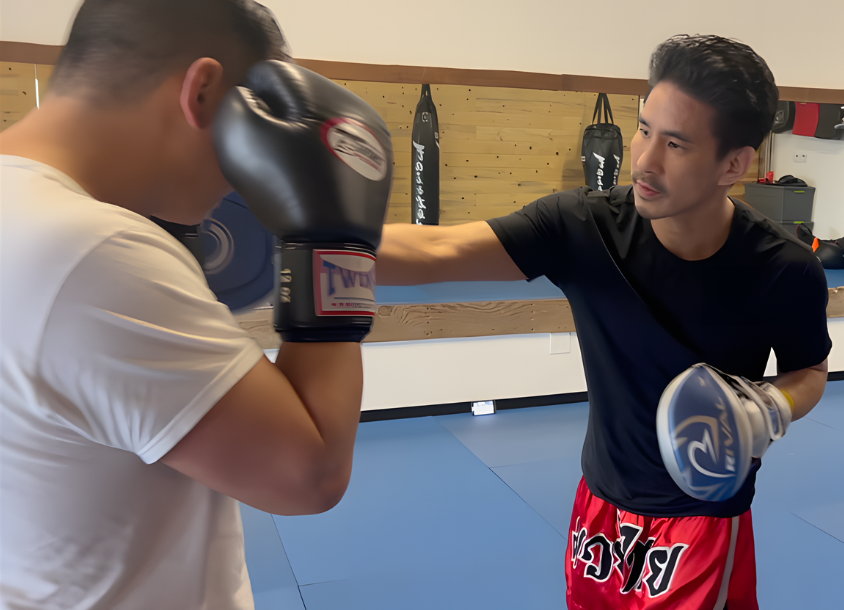
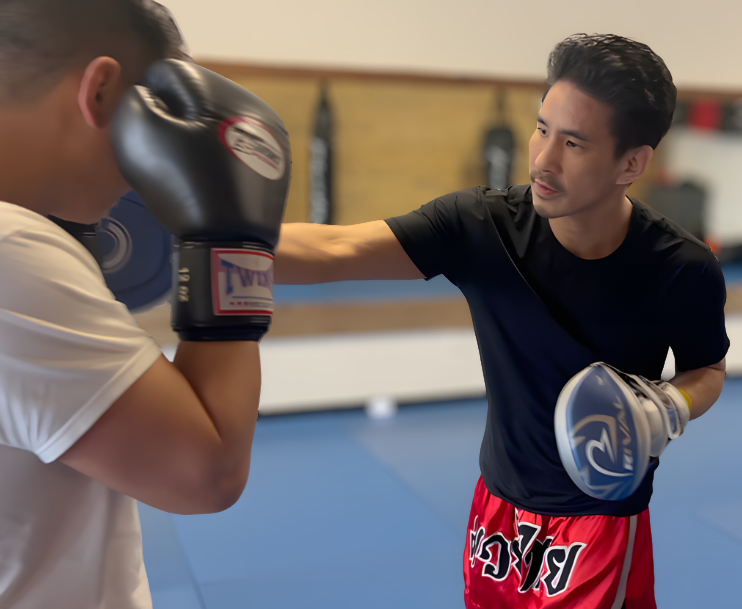
corrected about page image and wording

diff --git a/src/app/about/page.tsx b/src/app/about/page.tsx
@@ -85,7 +85,7 @@ function PhotoCard({ src, alt, caption }: { src?: string; alt?: string; caption?
 					<img
 						src={src}
 						alt={alt || 'Coach Larry'}
-						className='h-[340px] w-full object-cover md:h-[420px] opacity-90'
+						className='h-[340px] w-full object-cover scale-110  md:h-[420px] opacity-90'
 					/>
 				) : (
 					<div className='grid h-[340px] w-full place-items-center text-sm text-white/45 md:h-[420px]'></div>
@@ -173,12 +173,15 @@ export default function AboutPage() {
 						<p className='text-xs font-semibold tracking-[0.22em] text-white/60'>
 							COACHING PHILOSOPHY
 						</p>
-						<h2 className='mt-2 text-2xl font-semibold text-white md:text-3xl'>
-							Calm isn’t a personality. It’s a skill.
-						</h2>
+						<h2 className='mt-2 text-2xl font-semibold text-white md:text-3xl'></h2>
 						<p className='mt-3 max-w-3xl text-sm leading-relaxed text-white/70 md:text-base'>
-							Flow State is built on the belief that real competence shows up when the pace
-							increases. Not when everything is cooperative.
+							{/* When structure, position, and timing are trained correctly, calm becomes repeatable.{' '} */}
+							I don’t try to make people aggressive or fearless. I organize how their body moves,
+							reacts and responds when under pressure. When structure and position are reliable,
+							decisions slow down. <br />
+							<br />
+							Calm isn’t taught. It's the result.
+							<br />
 						</p>
 
 						<div className='mt-7 grid gap-4 md:grid-cols-3'>
@@ -221,16 +224,17 @@ export default function AboutPage() {
 						</Card>
 
 						<Card title='What I found'>
-							What I found wasn’t a new combo.
+							What I found wasn’t a new workout or technique.
 							<br />
 							<br />
-							It was the foundation underneath everything:
+							It was the foundation underneath of:
+							<br />
 							<span className='text-white/90'> Structure</span>,{' '}
 							<span className='text-white/90'>Position</span>, and{' '}
 							<span className='text-white/90'>Timing</span>.
 							<br />
 							<br />
-							When these pillars are intact, pressure doesn’t erase your skill.
+							When these pillars are intact, you stay poised and stay ready.
 						</Card>
 					</div>
 				</div>

diff --git a/src/app/components/premium-landing-page.tsx b/src/app/components/premium-landing-page.tsx
@@ -178,9 +178,7 @@ export default function PremiumLandingPage() {
 								</div>
 
 								<div className='p-5'>
-									<p className='text-sm text-neutral-300'>
-										“Speed covers mistakes. Structure removes them.”
-									</p>
+									<p className='text-sm text-neutral-300'>“Fighting is a dance.”</p>
 									<p className='mt-2 text-xs text-neutral-500 tracking-[0.16em]'>
 										FLOW STATE PRINCIPLE
 									</p>
@@ -197,18 +195,18 @@ export default function PremiumLandingPage() {
 			<Section
 				id='reframe'
 				eyebrow='Why most people feel rushed'
-				title='Urgency isn’t a personality. It’s a structure problem.'
+				title='Calm comes from structure and position.'
 			>
 				<div className='grid md:grid-cols-3 gap-6'>
 					<Card
 						title='Fast feels busy'
 						meta='OBSERVATION'
-						desc='When structure and distance are inconsistent, you spend speed to correct mistakes. You feel rushed even when you’re athletic.'
+						desc='When structure and distance are inconsistent, you spend speed and energy to compensate for mistakes. You feel rushed even when you’re athletic.'
 					/>
 					<Card
 						title='Position reduces motion'
 						meta='PRINCIPLE'
-						desc='Shorter distance to travel means fewer emergencies. You’re not reacting late—you’re already there.'
+						desc='Shorter distance creates cleaner entries and more precise strikes — without forcing speed.'
 					/>
 					<Card
 						title='Calm is trained'
@@ -251,9 +249,10 @@ export default function PremiumLandingPage() {
 						desc='We evaluate structure, distance, and decision-making. You leave with clarity and a recommended path.'
 					/>
 					<Card
-						title='Competency Path'
+						title='Beginners Path'
 						meta='8–12 SESSIONS'
-						desc='Designed to make you calm and capable anywhere—without relying on speed or toughness.'
+						// desc='Designed to make you calm and capable anywhere—without relying on speed or toughness.'
+						desc='Build structure, balance, and control so you can walk into any boxing or kickboxing gym and train confidently.'
 					/>
 					<Card
 						title='Small Group Training'

diff --git a/src/app/layout.tsx b/src/app/layout.tsx
@@ -4,6 +4,7 @@ import Provider from './components/provider'
 import ScrollToTarget from './components/scroll-to-target'
 import SmoothScroller from './components/smooth-scroller'
 import './globals.css'
+import { Analytics } from '@vercel/analytics/next'
 import { Inter } from 'next/font/google'
 
 const inter = Inter({ subsets: ['latin'] })
@@ -16,6 +17,7 @@ export const metadata = {
 export default function RootLayout({ children }: { children: React.ReactNode }) {
 	return (
 		<html lang='en'>
+			<Analytics />
 			<body className='bg-neutral-950 text-neutral-200 antialiased inter.className'>
 				<SmoothScroller />
 				<PremiumNavbarAll />

diff --git a/src/app/components/landing-page.tsx b/src/app/components/landing-page.tsx
@@ -119,7 +119,7 @@ export default function LandingPage() {
 			<Section
 				id='reframe'
 				eyebrow='Why most people feel rushed'
-				title='Urgency isn’t a personality. It’s a structure problem.'
+				title='Feeling rushed is not a personality. It’s a structure problem.'
 			>
 				<div className='grid md:grid-cols-3 gap-6'>
 					<Card
